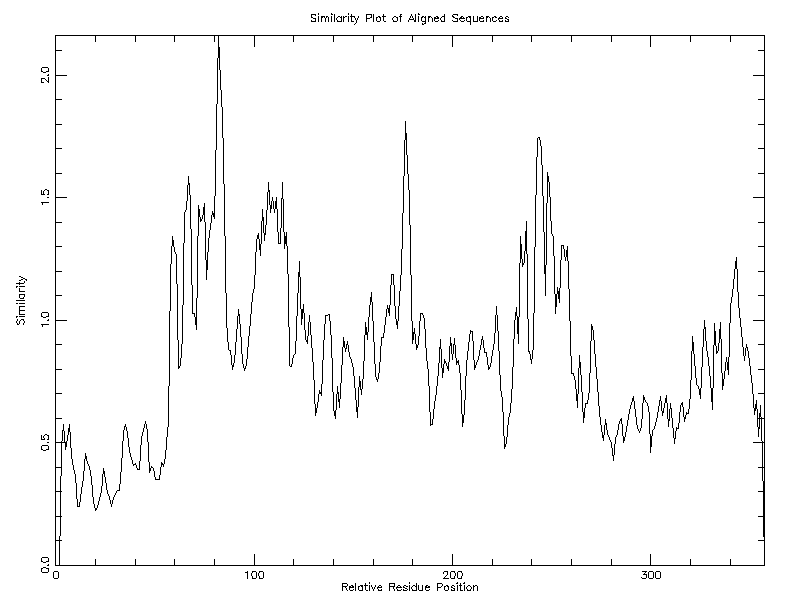
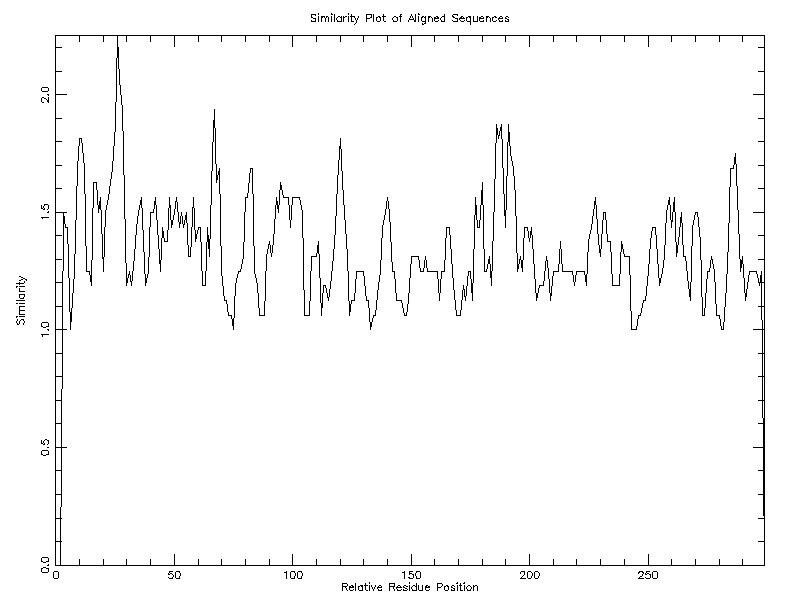
database changed and used

diff --git a/query.js b/query.js
@@ -19,14 +19,14 @@ async function getquery(event){
             const response = await fetch("query.php",{
             method: "POST",
             headers: {
-                "Content-Type": "application/x-www-form-urlencoded"
+                "Content-Type": "application/json"
             },
             body: `family=${family}&taxonomy=${taxonomy}`
             });
 
 	    // check result
-	   // const text = await response.text();
-	   // console.log("respone text:", text); 
+	    //const text = await response.text();
+	   //console.log("respone text:", text); 
     // display the results in the table
     const data = await response.json();
 

diff --git a/search.php b/search.php
@@ -85,7 +85,8 @@ if ($mode == 'example'){
     	 $stmt = $conn->prepare("SELECT id FROM users WHERE username = ?");
 	$stmt->execute(['example_G6P']);
 	$example_user = $stmt->fetch(PDO::FETCH_ASSOC)['id'];
-
+	
+	// get example search
          $stmt = $conn->prepare("
    	 SELECT * FROM searches
 	    WHERE user_id = ?
@@ -95,6 +96,19 @@ if ($mode == 'example'){
 	$stmt->execute([$example_user]);
 	$search = $stmt->fetch(PDO::FETCH_ASSOC);
 
+	if (!$search) {
+            throw new Exception("No example search found");
+	}
+
+	// get example sequences 
+	$stmt = $conn->prepare("
+            SELECT * FROM sequences
+            WHERE search_id = ?
+        ");
+        $stmt->execute([$search['id']]);
+        $sequences = $stmt->fetchAll(PDO::FETCH_ASSOC);
+
+	// get example results
         $stmt = $conn->prepare("
 	    SELECT * FROM results
 	    WHERE search_id = ?
@@ -105,20 +119,36 @@ if ($mode == 'example'){
 	$result = $stmt->fetch(PDO::FETCH_ASSOC); 
 
 	 // insert the data into current user
-	
+	// new search
 	$stmt = $conn->prepare("
-   	 INSERT INTO searches (user_id, protein_family, taxonomy, sequences)
-  	  VALUES (?, ?, ?, ?)
+   	 INSERT INTO searches (user_id, protein_family, taxonomy)
+  	  VALUES (?, ?, ?)
 	");
 	$stmt->execute([
 	    $user_id,
 	    $search['protein_family'],
-	    $search['taxonomy'],
-	    $search['sequences']
+	    $search['taxonomy']
 	]);
 
 	$new_search_id = $conn->lastInsertId();
+	
+	//copy sequences
+	$stmt = $conn->prepare("
+            INSERT INTO sequences (search_id, sequence_id, name, sequence, length)
+            VALUES (?, ?, ?, ?, ?)
+        ");
 
+        foreach ($sequences as $seq) {
+            $stmt->execute([
+                $new_search_id,
+                $seq['sequence_id'],
+                $seq['name'],
+                $seq['sequence'],
+                $seq['length']
+            ]);
+        }
+
+	//copy result
 	$stmt = $conn->prepare("
 	    INSERT INTO results (search_id, motif, conservation, other)
 	    VALUES (?, ?, ?, ?)
@@ -165,8 +195,16 @@ if ($mode == 'example'){
         $search->execute([$user_id]);
         $search = $search->fetch(PDO::FETCH_ASSOC);
     }
-	// get result
+	// get result if search exist
     if ($search) {
+	// get sequences	
+        $sequences = $conn->prepare("
+            SELECT * FROM sequences
+            WHERE search_id = ?
+        ");
+        $sequences->execute([$search['id']]);
+        $sequences = $sequences->fetchAll(PDO::FETCH_ASSOC);
+
 
         $result = $conn->prepare("
             SELECT * FROM results 
@@ -177,17 +215,13 @@ if ($mode == 'example'){
         $result->execute([$search['id']]);
         $result = $result->fetch(PDO::FETCH_ASSOC);
 
-        // prepare intial data
-        $data = [
-            "search" => $search,
-            "result" => $result
-        ];
 	
 	//set session search_id
 	$_SESSION['search_id'] = $search['id'];
     } else{
    	$_SESSION['search_id'] = null;
 	$search = null;
+	$sequences = null;
 	$result = null;
     }
 	} catch(PDOException $e) {
@@ -197,11 +231,13 @@ if ($mode == 'example'){
 // if start from new search
 	$_SESSION['search_id'] = null;
 	$search = null;
+	$sequences = null;
 	$result = null;
 }
 $data = [
         "search" => $search,
-        "result" => $result
+	"sequences" => json_encode($sequences),
+	"result" => $result
     ];
 ?>
 
@@ -216,13 +252,13 @@ if (searchId !==null) {
 function renderResults(data){
 	console.log(data);
     // load sequences
-    if (data.search.sequences !== null){	
+    if (data.sequences !== null){	
 
 	    document.getElementById("family").value = data.search.protein_family;
 	    document.getElementById("taxonomy").value = data.search.taxonomy;
 	    output = document.getElementById("results");
 	    output.innerHTML = "";
-    sequences = JSON.parse(data.search.sequences);
+    sequences = JSON.parse(data.sequences);
 
     sequences.forEach(item => {
     //    console.log("item:",item);
